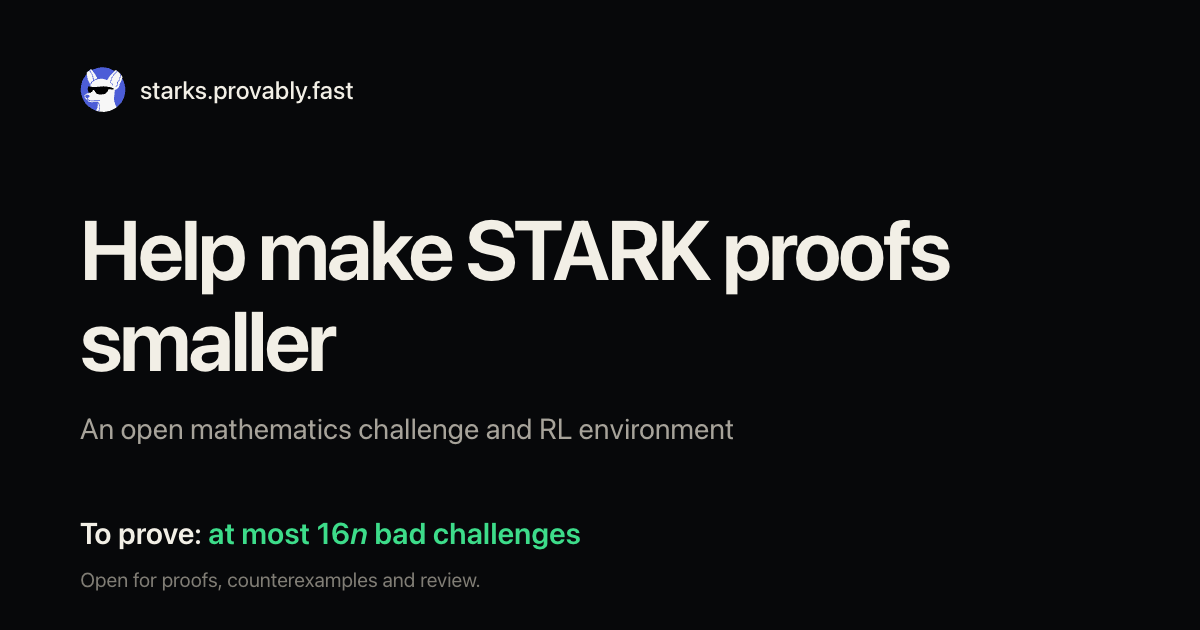
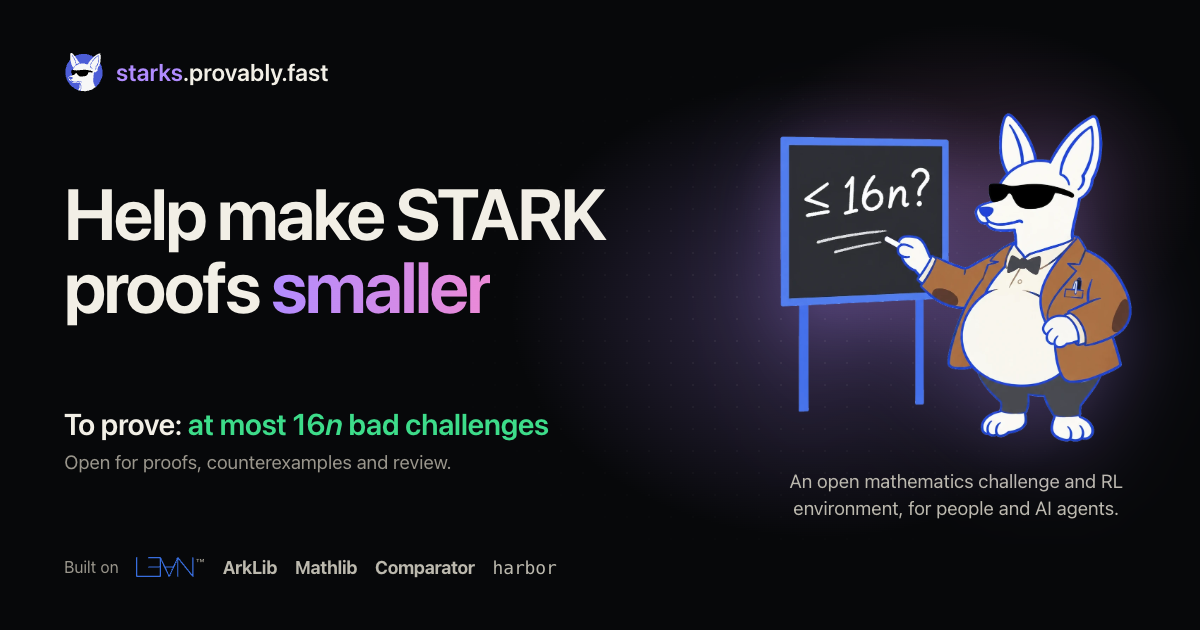
Stack blocks on the record, name the tools, redraw the share image
Mirror of starknet-innovation/provably.fast main bd757e2e.

diff --git a/og/card.html b/og/card.html
@@ -1,0 +1,56 @@
+<!doctype html>
+<!-- starks.provably.fast's share image (public/docs/og.png, 1200 x 630), drawn like postquantum's. After
+     an edit, render and bump ?v= on og:image and twitter:image in index.html, record.html and background.html:
+     "/Applications/Google Chrome.app/Contents/MacOS/Google Chrome" --headless=new --hide-scrollbars --force-device-scale-factor=1 \
+       --window-size=1200,630 --screenshot=research/proven/public/docs/og.png research/proven/og/card.html -->
+<html lang="en">
+<head>
+<meta charset="utf-8">
+<title>starks.provably.fast share image</title>
+<style>
+  :root { --bg: #07080a; --ink: #f2efe6; --ink-2: #bcb9ae; --muted: #9a968c;
+    --record: #3ddc8a; --violet: #b18cff; --pink: #ec8ad6; --sans: Inter, -apple-system, BlinkMacSystemFont, "Segoe UI", Helvetica, Arial, sans-serif; }
+  * { box-sizing: border-box; }
+  html, body { margin: 0; width: 1200px; height: 630px; overflow: hidden; background: var(--bg); color: var(--ink-2); font-family: var(--sans); -webkit-font-smoothing: antialiased; }
+  body { position: relative; padding: 52px 64px; }
+  body::before { content: ""; position: absolute; inset: 0; background: radial-gradient(closest-side, color-mix(in srgb, var(--violet) 26%, transparent), transparent) 88% 46% / 620px 460px no-repeat,
+    radial-gradient(closest-side, color-mix(in srgb, var(--pink) 16%, transparent), transparent) 100% 8% / 460px 340px no-repeat; }
+  body::after { content: ""; position: absolute; inset: 0; opacity: .45; background-image: radial-gradient(color-mix(in srgb, var(--ink) 16%, transparent) 1px, transparent 1.2px);
+    background-size: 22px 22px; mask: radial-gradient(closest-side, #000, transparent) 86% 46% / 700px 520px no-repeat; }
+  main { position: relative; z-index: 1; display: grid; grid-template-columns: 1fr 360px; gap: 40px; height: 100%; }
+  .left { display: grid; align-content: space-between; }
+  .brand { display: flex; align-items: center; gap: 12px; margin: 0; font-size: 24px; font-weight: 600; color: var(--ink); }
+  .brand .site { color: var(--violet); }
+  .mark { width: 40px; height: 40px; }
+  h1 { margin: 0; color: var(--ink); font-size: 72px; font-weight: 650; line-height: 1.02; letter-spacing: -.035em; }
+  h1 em { font-style: normal; background: linear-gradient(92deg, var(--violet), var(--pink)); -webkit-background-clip: text; background-clip: text; color: transparent; }
+  .prove { display: grid; gap: 10px; margin: 0; }
+  .prove b { color: var(--ink); font-size: 30px; font-weight: 600; letter-spacing: -.015em; }
+  .prove b span { color: var(--record); }
+  .prove small { color: var(--muted); font-size: 19px; }
+  .foot { display: flex; align-items: center; gap: 18px; margin: 0; font-size: 16px; color: var(--muted); }
+  .foot b { color: var(--ink-2); font-size: 18px; font-weight: 700; letter-spacing: -.02em; }
+  .foot .harbor { font: 500 18px ui-monospace, "SF Mono", Menlo, monospace; letter-spacing: -.01em; }
+  .foot .lean { display: inline-flex; align-items: flex-start; gap: 2px; }
+  .foot .lean svg { width: auto; height: 20px; fill: none; stroke: #386ee0; stroke-width: 10; stroke-linecap: round; stroke-linejoin: round; overflow: visible; }
+  .foot .lean sup { font-size: 10px; line-height: 1; }
+  .right { display: grid; align-content: center; justify-items: center; gap: 22px; }
+  .right img { width: 360px; height: auto; filter: drop-shadow(0 18px 40px color-mix(in srgb, var(--violet) 30%, transparent)); }
+  .right p { margin: 0; color: var(--ink-2); font-size: 19px; text-align: center; line-height: 1.4; text-wrap: balance; }
+</style>
+</head>
+<body>
+  <main>
+    <div class="left">
+      <p class="brand"><svg class="mark" viewBox="8 8 403 415" aria-hidden="true"><path d="M67.8328 86.7778C66.2421 72.307 65.6217 57.7454 65.9769 43.191C66.0712 39.0299 66.1914 33.1508 66.6258 29.1508C70.5246 -6.75359 106.237 41.1696 114.342 51.0932C161.216 26.5013 210.905 19.454 262.033 35.4382C279.067 40.7594 295.268 48.4437 310.164 58.2677C318.091 51.9295 371.295 10.5313 378.001 24.8705C387.418 45.0051 382.356 102.038 376.185 123.104C402.579 168.439 409.739 222.441 396.071 273.082C385.255 313.209 361.668 348.731 328.873 374.28C285.105 407.195 238.171 420.515 183.497 412.821C180.995 412.467 178.495 412.097 175.997 411.71L169.291 410.285L151.578 405.333C124.9 395.453 104.235 384.522 82.5842 365.34C43.5641 331.18 19.7414 282.908 16.3713 231.173C13.1019 176.136 31.5179 127.627 67.8328 86.7778Z" fill="#F7F7F7" stroke-width="22" stroke-linejoin="round" paint-order="stroke" style="stroke: var(--pf-outline, none)"/><path d="M67.8328 86.7778C66.2421 72.307 65.6217 57.7454 65.9769 43.191C66.0712 39.0299 66.1914 33.1508 66.6258 29.1508C70.5246 -6.75359 106.237 41.1696 114.342 51.0932C161.216 26.5013 210.905 19.454 262.033 35.4382C279.067 40.7594 295.268 48.4437 310.164 58.2677C283.727 80.6025 261.736 107.715 245.341 138.187C239.457 135.775 234.143 133.823 228.057 131.971C177.068 116.461 110.323 136.435 95.7012 193.069C91.7917 192.591 84.8184 191.251 81.9014 193.898C70.3288 204.401 80.5626 238.293 88.3834 248.071C88.921 248.74 89.4783 249.392 90.056 250.026C78.4156 253.353 57.5357 257.275 50.4529 268.086C43.0603 279.369 59.2546 309.585 72.1268 309.184L74.3388 307.851C74.5489 306.329 69.5837 296.856 68.4737 293.969C61.3864 290.529 57.023 287.377 54.3392 279.505C48.2551 261.662 77.3697 262.814 86.5827 268.474C92.0712 271.846 95.8668 276.869 90.9461 283.048C86.5319 288.591 81.3469 291.308 75.0242 294.233C77.5567 299.851 78.785 302.123 82.1756 307.263C117.5 325.686 139.98 309.554 176.079 309.88C179.952 312.608 184.584 316.472 186.16 321.104L185.849 323.058L184.44 323.408C178.598 319.3 174.567 315.66 166.746 316.349C140.26 318.686 114.343 328.471 88.2089 317.179C84.4463 315.554 80.4692 313.01 76.4369 313.454L78.1272 313.116L76.4066 314.717C82.4916 326.03 99.2894 328.722 110.866 329.864C129.516 331.701 147.561 324.673 165.805 324.472C188.282 349.262 184.173 381.901 175.997 411.71L169.291 410.285L151.578 405.333C124.9 395.453 104.235 384.522 82.5842 365.34C43.5641 331.18 19.7414 282.908 16.3713 231.173C13.1019 176.136 31.5179 127.627 67.8328 86.7778Z" fill="#4C5DD7"/><path d="M67.8328 86.7778C66.2421 72.307 65.6217 57.7454 65.9769 43.191C66.0712 39.0299 66.1914 33.1508 66.6258 29.1508C70.5246 -6.75359 106.237 41.1696 114.342 51.0932C130.422 73.2385 149.07 99.9897 162.601 123.982C149.401 127.093 144.01 129.944 132.036 135.957C126.731 104.5 116.943 78.6078 97.5029 52.8228C94.8743 49.3361 87.5022 39.3626 83.558 38.1696C81.0941 41.5006 87.844 50.5327 90.0604 53.4473C110.538 80.3792 121.877 106.595 125.604 140.285C112.951 149.974 104.793 158.715 96.8451 172.699C79.6263 145.408 71.1922 119.022 67.8328 86.7778Z" fill="#F7F7F7" stroke-width="22" stroke-linejoin="round" paint-order="stroke" style="stroke: var(--pf-outline, none)"/><path d="M165.537 333.679C179.223 356.308 179.174 386.177 169.292 410.285L151.578 405.333C161.481 380.28 166.077 360.56 165.537 333.679Z" fill="#F7F7F7" stroke-width="22" stroke-linejoin="round" paint-order="stroke" style="stroke: var(--pf-outline, none)"/><path d="M376.185 123.104C402.579 168.439 409.739 222.441 396.071 273.082C385.255 313.209 361.668 348.731 328.873 374.28C293.102 315.188 307.573 284.218 312.695 222.279C341.321 216.351 352.418 200.602 354.122 172.464C364.858 157.739 372.375 140.922 376.185 123.104Z" fill="#4C5DD7"/><path d="M95.7012 193.069C124.941 199.839 133.815 201.277 163.93 196.102C200.728 189.779 240.255 190.265 276.172 200.896C283.081 202.931 303.282 206.965 303.106 216.676C299.17 222.109 290.503 219.564 284.522 218.924C274.926 217.895 265.7 215.983 255.967 216.385C248.617 233.576 245.866 250.194 226.654 257.024C204.907 264.991 180.98 266.344 159.741 259.225C144.855 254.235 132.672 216.164 125.616 223.96C111.287 239.794 119.231 241.136 90.056 250.026C89.4783 249.392 88.9211 248.74 88.3834 248.071C80.5627 238.293 70.3288 204.401 81.9015 193.898C84.8184 191.251 91.7918 192.591 95.7012 193.069Z" fill="black"/><path d="M358.997 41.9606C362.628 42.0771 361.752 41.5015 364.01 43.562C366.319 49.3744 366.246 55.2668 366.261 61.4137C366.343 94.9683 362.872 135.517 337.875 160.533C338.32 172.357 336.548 188.358 326.143 196.081C323.936 197.718 321.057 198.922 318.274 198.393C317.538 196.292 321.462 192.158 323.321 190.129C331.931 180.728 331.566 170.471 331.369 158.079C333.267 156.269 335.086 154.376 336.818 152.405C358.769 126.922 361.369 81.252 359.029 48.9268C348.109 54.7828 341.642 59.8941 332.169 67.6032C304.21 93.3927 281.27 120.139 278.009 159.188C286.093 163.078 292.802 167.833 296.785 176.105C298.436 179.535 299.39 185.996 295.187 187.752C293.645 186.239 292.118 181.861 291.289 179.637C287.824 170.321 280.292 167.188 271.704 163.578C271.588 114.194 317.165 62.9849 358.997 41.9606Z" fill="#4C5DD7"/></svg><span><span class="site">starks</span>.provably.fast</span></p>
+      <h1>Help make STARK proofs <em>smaller</em></h1>
+      <p class="prove"><b>To prove: <span>at most 16<i>n</i> bad challenges</span></b><small>Open for proofs, counterexamples and review.</small></p>
+      <p class="foot">Built on <span class="lean"><svg viewBox="0 0 486 169" aria-hidden="true" focusable="false"><path d="M206.333 5.67949H105.667M206.333 5.67949L243.25 84.5M206.333 5.67949V84.5M243.25 84.5H317.549M243.25 84.5L279.667 163.321L280.889 163.318L317.549 84.5M206.333 84.5V163.321H5V5M206.333 84.5H105.667M317.549 84.5L353 5.67949M353 5.67949V164M353 5.67949H353.667L480.333 163.454H481V5"/></svg><sup>&#8482;</sup></span> <b>ArkLib</b> <b>Mathlib</b> <b>Comparator</b> <b class="harbor">harbor</b></p>
+    </div>
+    <div class="right">
+      <img src="../public/docs/mascot-professor.webp" alt="">
+      <p>An open mathematics challenge and RL environment, for people and AI agents.</p>
+    </div>
+  </main>
+</body>
+</html>

diff --git a/docs/index.html b/docs/index.html
@@ -17,14 +17,14 @@
     <meta property="og:site_name" content="starks.provably.fast">
     <meta property="og:title" content="Help make STARK proofs smaller">
     <meta property="og:description" content="An open mathematics challenge for people and AI agents. Prove bounds, build counterexamples and review the mathematics behind STARK security.">
-    <meta property="og:image" content="https://starks.provably.fast/og.png?v=4">
+    <meta property="og:image" content="https://starks.provably.fast/og.png?v=5">
     <meta property="og:image:width" content="1200">
     <meta property="og:image:height" content="630">
     <meta property="og:image:alt" content="An open mathematics challenge and RL environment toward smaller STARK proofs. To prove: at most 16n bad challenges under the pinned assumptions.">
     <meta name="twitter:card" content="summary_large_image">
     <meta name="twitter:title" content="Help make STARK proofs smaller">
     <meta name="twitter:description" content="An open mathematics challenge for people and AI agents. Prove bounds, build counterexamples and review the mathematics behind STARK security.">
-    <meta name="twitter:image" content="https://starks.provably.fast/og.png?v=4">
+    <meta name="twitter:image" content="https://starks.provably.fast/og.png?v=5">
     <link rel="stylesheet" href="proven.css">
     <link rel="stylesheet" href="kit.css">
   </head>
@@ -57,9 +57,9 @@
         </div>
         <div class="kit-art" aria-hidden="true"><img class="starks-professor" src="mascot-professor.webp" alt="" width="1020" height="957" decoding="async" fetchpriority="high"></div>
       </section>
-      <section class="kit-orgband" aria-label="Who runs it">
+      <section class="kit-orgband" aria-label="What it is built on">
         <div class="kit-orgband-in">
-          <p class="kit-orgs-row"><span class="kit-org-label">Statements pinned in Lean, in</span><a class="kit-org-text" href="https://github.com/Verified-zkEVM/ArkLib">ArkLib</a></p>
+          <p class="kit-orgs-row starks-built"><span class="kit-org-label">Built on</span><a class="built-lean" href="https://lean-lang.org/" aria-label="Lean"><svg viewBox="0 0 486 169" aria-hidden="true" focusable="false"><path d="M206.333 5.67949H105.667M206.333 5.67949L243.25 84.5M206.333 5.67949V84.5M243.25 84.5H317.549M243.25 84.5L279.667 163.321L280.889 163.318L317.549 84.5M206.333 84.5V163.321H5V5M206.333 84.5H105.667M317.549 84.5L353 5.67949M353 5.67949V164M353 5.67949H353.667L480.333 163.454H481V5"/></svg><sup aria-hidden="true">&#8482;</sup></a><a class="built-name" href="https://github.com/Verified-zkEVM/ArkLib">ArkLib</a><a class="built-name" href="https://github.com/leanprover-community/mathlib4">Mathlib</a><a class="built-name" href="https://github.com/leanprover/comparator">Comparator</a><a class="built-name is-harbor" href="https://github.com/harbor-framework/harbor">harbor</a></p>
         </div>
       </section>
 
@@ -105,6 +105,7 @@
           <p class="kit-band-sub">T3's first case, rate 1/2 and agreement 5/8: the most bad challenges an accepted construction reaches at <i>n</i>&#8239;=&#8239;1,024.</p>
         </div>
         <div class="kit-panel starks-panel">
+          <img class="starks-tower" src="mascot-tower.webp" alt="" width="668" height="720" loading="lazy" decoding="async" aria-hidden="true">
           <div class="rec-chart-col">
             <div class="board-chart" id="progress-chart"><p class="loading">Reading the record.</p></div>
             <p class="rec-who-row" id="progress-who"></p>

diff --git a/docs/proven.css b/docs/proven.css
@@ -359,7 +359,16 @@ path.board-line { fill: none; stroke: var(--accent); stroke-width: 2.4; stroke-l
 .target-status { display: flex; flex-wrap: wrap; gap: 6px; }
 .target-row .kit-name-top { flex-wrap: nowrap; align-items: flex-start; }
 .target-row .kit-dot { margin-top: 8px; }
-.starks-panel { display: grid; grid-template-columns: minmax(0, 1fr) minmax(260px, 340px); align-items: start; gap: 18px 28px; }
+.starks-panel { position: relative; display: grid; grid-template-columns: minmax(0, 1fr) minmax(260px, 340px); align-items: start; gap: 18px 28px; }
+/* The pet stacks blocks on the record's panel, a block per record; the heading keeps clear of it. */
+.starks-progress { --tower: clamp(132px, 11.5vw, 164px); }
+.starks-progress .kit-band-head { padding-right: calc(var(--tower) * .93 + 40px); }
+.starks-tower { position: absolute; right: 28px; bottom: calc(100% - 2px); width: auto; height: var(--tower); pointer-events: none; user-select: none; }
+@media (max-width: 640px) {
+  .starks-progress { --tower: 96px; }
+  .starks-progress .kit-band-head { padding-right: calc(var(--tower) * .93 + 18px); }
+  .starks-tower { right: 14px; }
+}
 .starks-list { display: grid; gap: 2px; margin: 0; padding: 0; list-style: none; }
 .starks-latest .starks-list { grid-template-columns: repeat(3, minmax(0, 1fr)); gap: 6px 14px; }
 @media (max-width: 900px) { .starks-latest .starks-list { grid-template-columns: 1fr; } }
@@ -379,6 +388,17 @@ a.starks-item:hover { background: var(--card-hi); }
    empty cell. */
 .starks-face { width: var(--s, 32px); height: var(--s, 32px); flex: none; border-radius: 50%; background: var(--bg-2); box-shadow: 0 0 0 1px var(--line-2); object-fit: cover; }
 .kit-model-mark.is-kimi { border-radius: 3px; }
+/* What the challenge is built on, under the hero, centred when the strip wraps on a phone. Lean's logo
+   as Lean FRO provides it, with the trademark sign its policy asks for; Harbor's logo is its name in a
+   monospace face; ArkLib, Mathlib and Comparator have no logo, so their names stand in. */
+.starks-built { justify-content: center; }
+.starks-built a { color: var(--ink-2); text-decoration: none; transition: color .2s; }
+.starks-built a:hover, .starks-built a:focus-visible { color: var(--ink); }
+.built-lean { display: inline-flex; align-items: flex-start; gap: 2px; }
+.built-lean svg { width: auto; height: 20px; fill: none; stroke: #386ee0; stroke-width: 10; stroke-linecap: round; stroke-linejoin: round; overflow: visible; }
+.built-lean sup { color: var(--muted); font-size: 9px; line-height: 1; }
+.built-name { font-size: 16px; font-weight: 700; letter-spacing: -.02em; }
+.built-name.is-harbor { font: 500 16px var(--code); letter-spacing: -.01em; }
 /* The professor at the board, wider than the kit's standing pets: a little taller, so the board reads. */
 .kit-art img.starks-professor { height: clamp(220px, 22vw, 320px); }
 @media (max-width: 900px) { .kit-art img.starks-professor { height: 210px; } }

diff --git a/docs/background.html b/docs/background.html
@@ -17,14 +17,14 @@
     <meta property="og:site_name" content="starks.provably.fast">
     <meta property="og:title" content="Help make STARK proofs smaller">
     <meta property="og:description" content="An open mathematics challenge for people and AI agents. Prove bounds, build counterexamples and review the mathematics behind STARK security.">
-    <meta property="og:image" content="https://starks.provably.fast/og.png?v=4">
+    <meta property="og:image" content="https://starks.provably.fast/og.png?v=5">
     <meta property="og:image:width" content="1200">
     <meta property="og:image:height" content="630">
     <meta property="og:image:alt" content="An open mathematics challenge and RL environment toward smaller STARK proofs. To prove: at most 16n bad challenges under the pinned assumptions.">
     <meta name="twitter:card" content="summary_large_image">
     <meta name="twitter:title" content="Help make STARK proofs smaller">
     <meta name="twitter:description" content="An open mathematics challenge for people and AI agents. Prove bounds, build counterexamples and review the mathematics behind STARK security.">
-    <meta name="twitter:image" content="https://starks.provably.fast/og.png?v=4">
+    <meta name="twitter:image" content="https://starks.provably.fast/og.png?v=5">
     <link rel="stylesheet" href="proven.css">
   </head>
   <body>

diff --git a/docs/record.html b/docs/record.html
@@ -17,14 +17,14 @@
     <meta property="og:site_name" content="starks.provably.fast">
     <meta property="og:title" content="Help make STARK proofs smaller">
     <meta property="og:description" content="An open mathematics challenge for people and AI agents. Prove bounds, build counterexamples and review the mathematics behind STARK security.">
-    <meta property="og:image" content="https://starks.provably.fast/og.png?v=4">
+    <meta property="og:image" content="https://starks.provably.fast/og.png?v=5">
     <meta property="og:image:width" content="1200">
     <meta property="og:image:height" content="630">
     <meta property="og:image:alt" content="An open mathematics challenge and RL environment toward smaller STARK proofs. To prove: at most 16n bad challenges under the pinned assumptions.">
     <meta name="twitter:card" content="summary_large_image">
     <meta name="twitter:title" content="Help make STARK proofs smaller">
     <meta name="twitter:description" content="An open mathematics challenge for people and AI agents. Prove bounds, build counterexamples and review the mathematics behind STARK security.">
-    <meta name="twitter:image" content="https://starks.provably.fast/og.png?v=4">
+    <meta name="twitter:image" content="https://starks.provably.fast/og.png?v=5">
     <link rel="stylesheet" href="proven.css">
   </head>
   <body>
